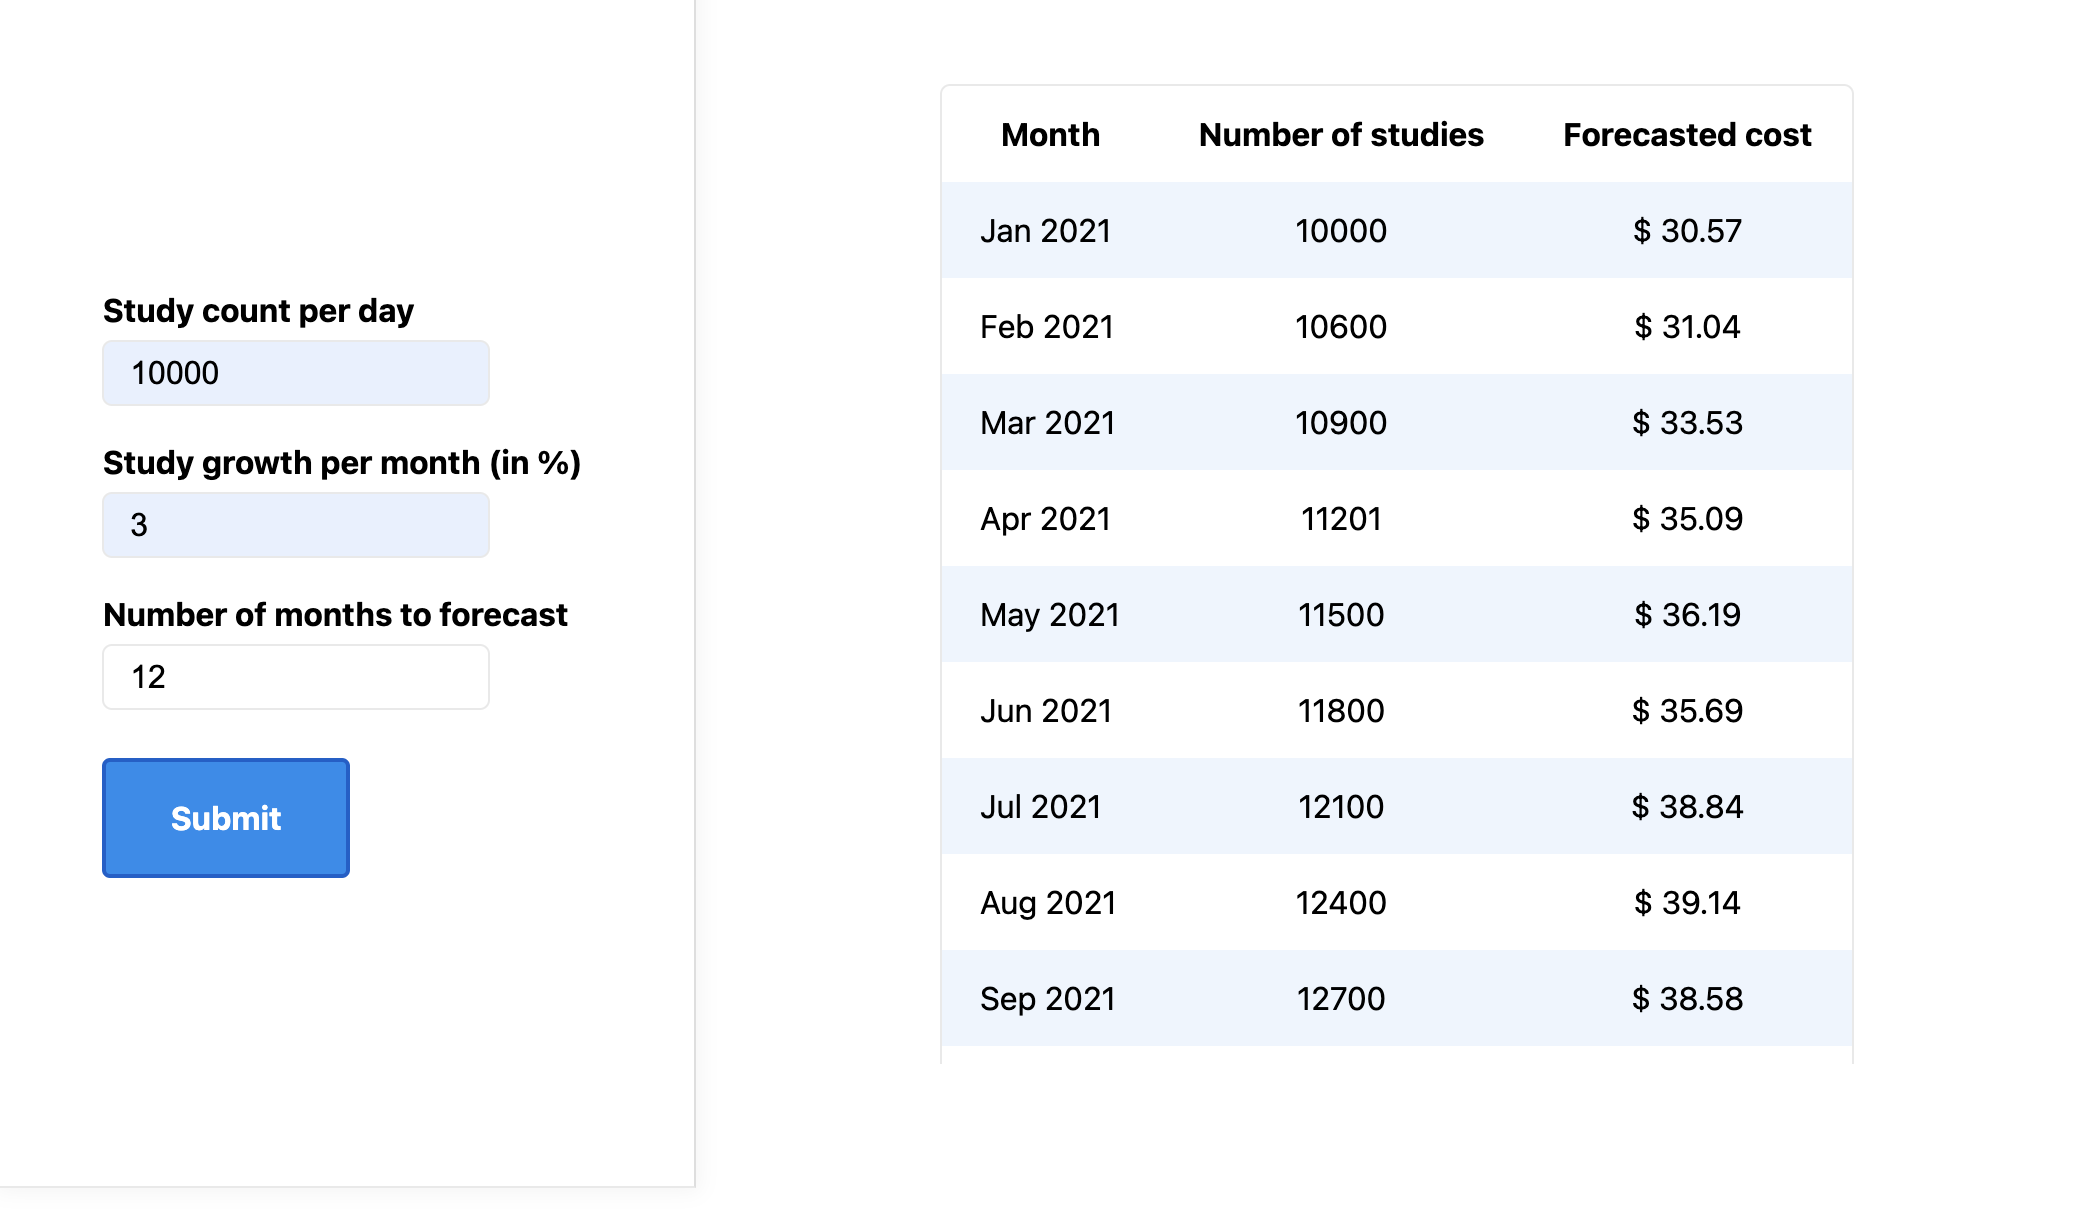
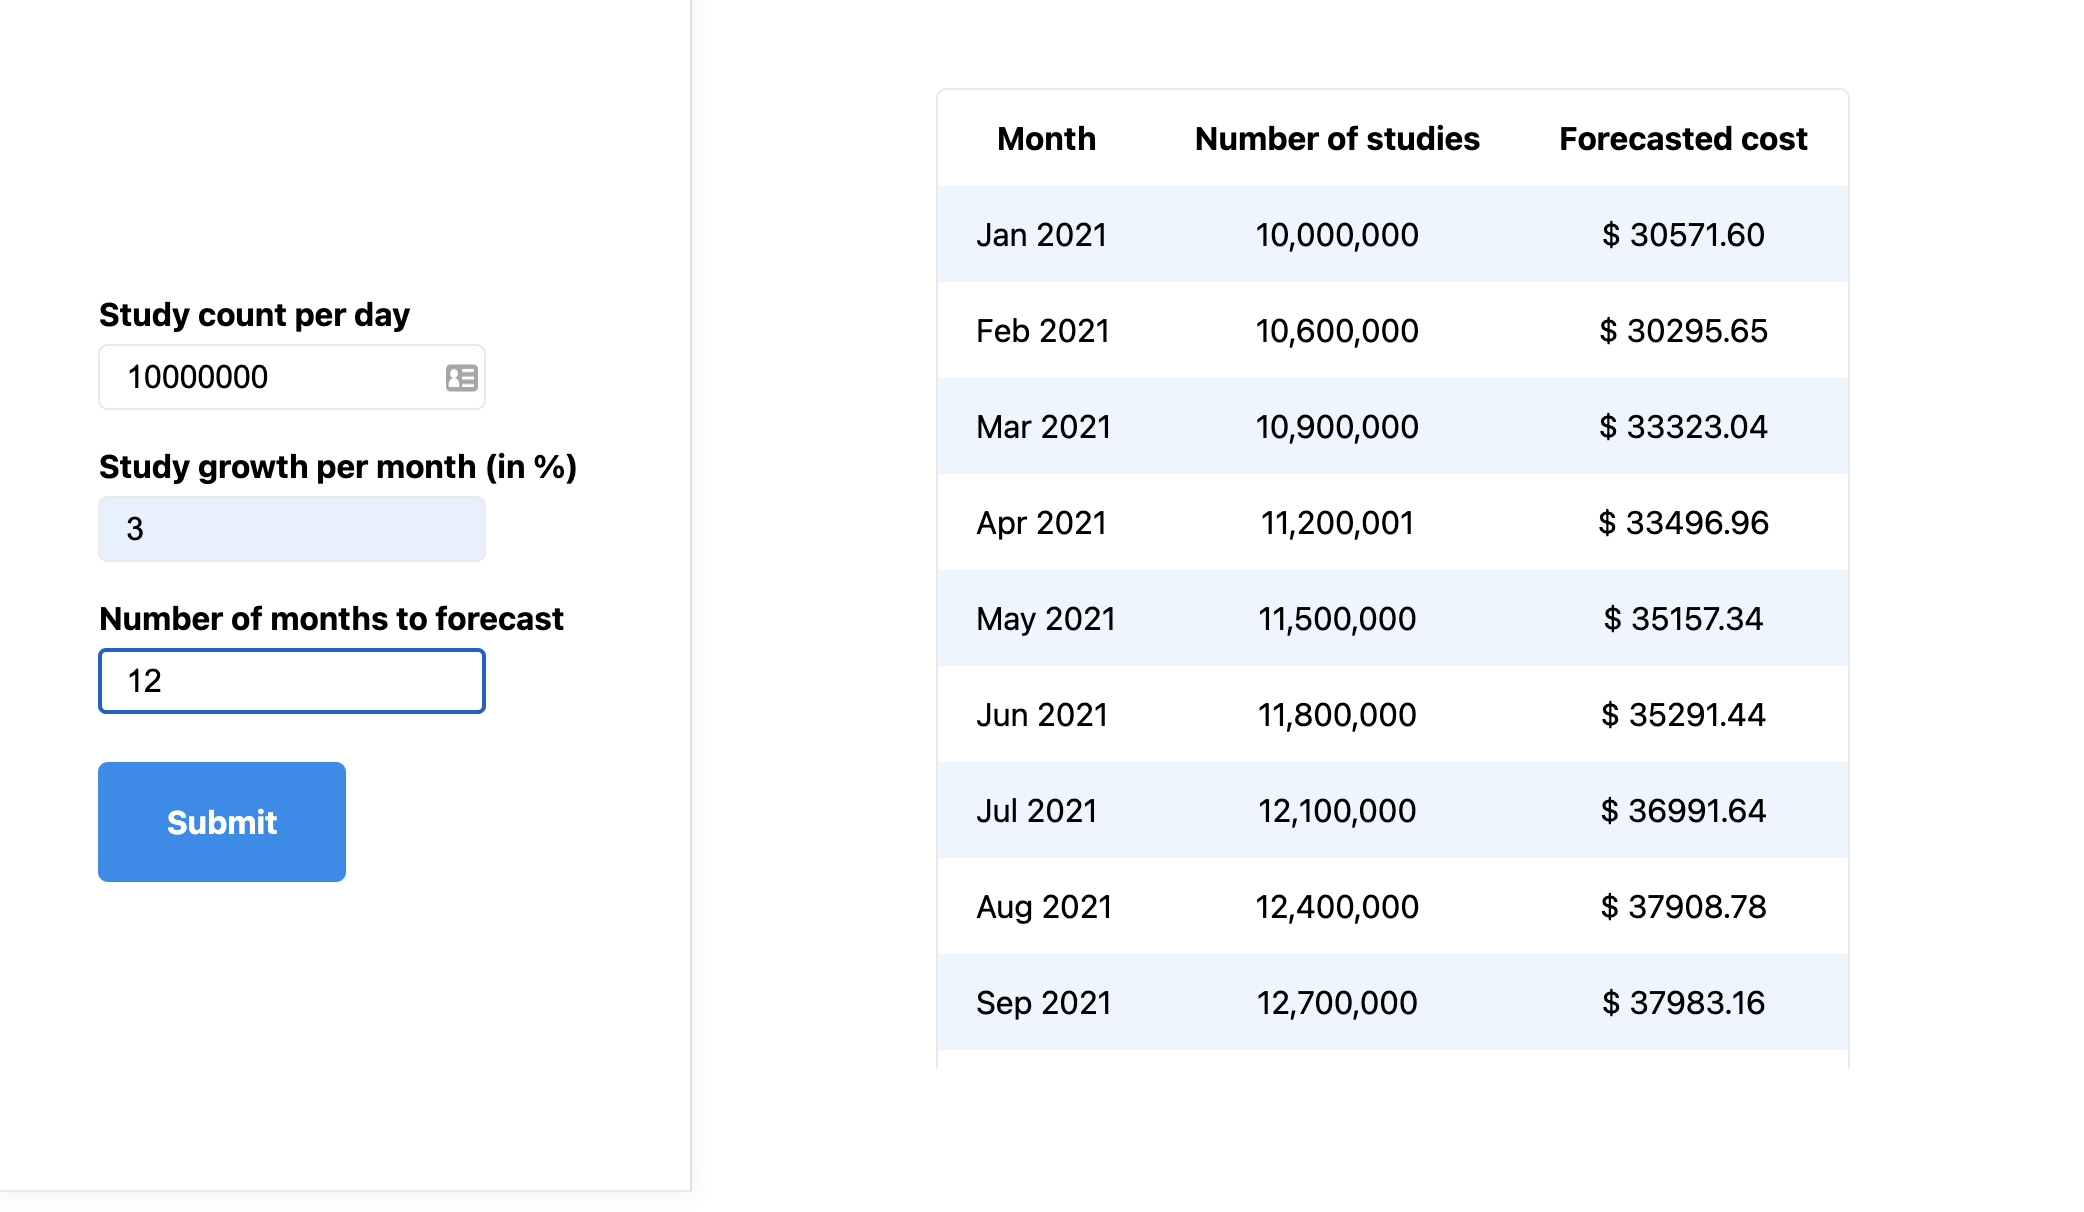
- corrects study count format - updates README and thumbnail

diff --git a/src/Models/Serializables/MonthlyForecast.php b/src/Models/Serializables/MonthlyForecast.php
@@ -26,7 +26,7 @@ class MonthlyForecast implements \JsonSerializable
     {
         return [
             'month' => $this->month->format(self::DATE_FORMAT),
-            'studies' => ceil($this->studies),
+            'studies' => number_format(ceil($this->studies)),
             'cost' => $this->convertedToCurrency($this->cost)
         ];
     }

diff --git a/README.md b/README.md
@@ -2,6 +2,8 @@
 
 Forecast the cost of LMS infrastructure based on customer usage and expected growth.
 
+![LMS Forecaster thumbnail](https://github.com/morcen/lms-forecaster/blob/master/public/assets/images/thumbnail.png)
+
 ## Tech stack
 - Docker
 - PHP 8
